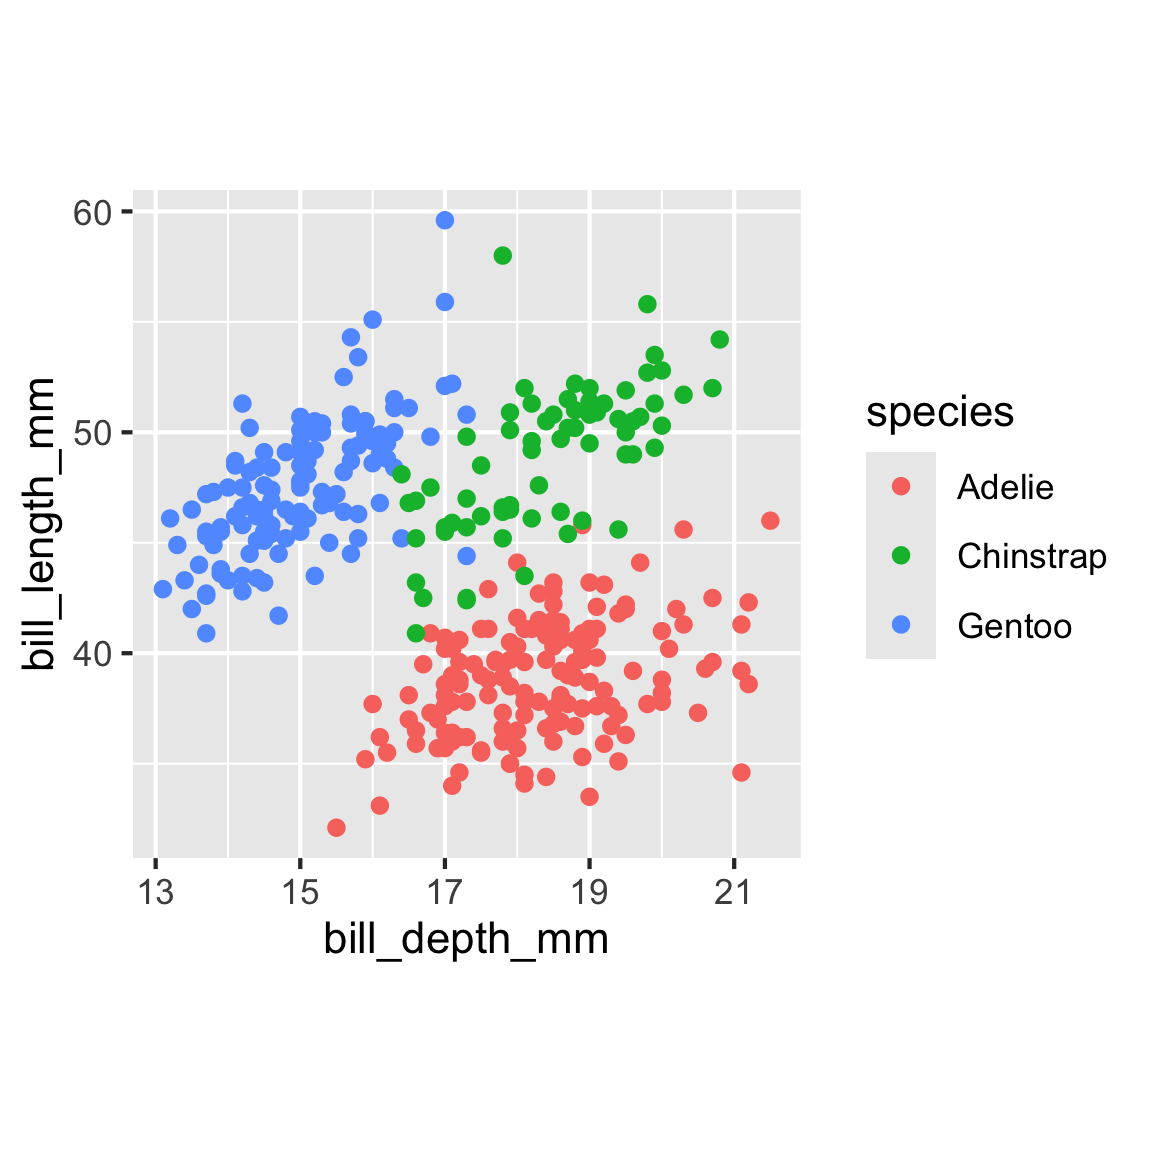
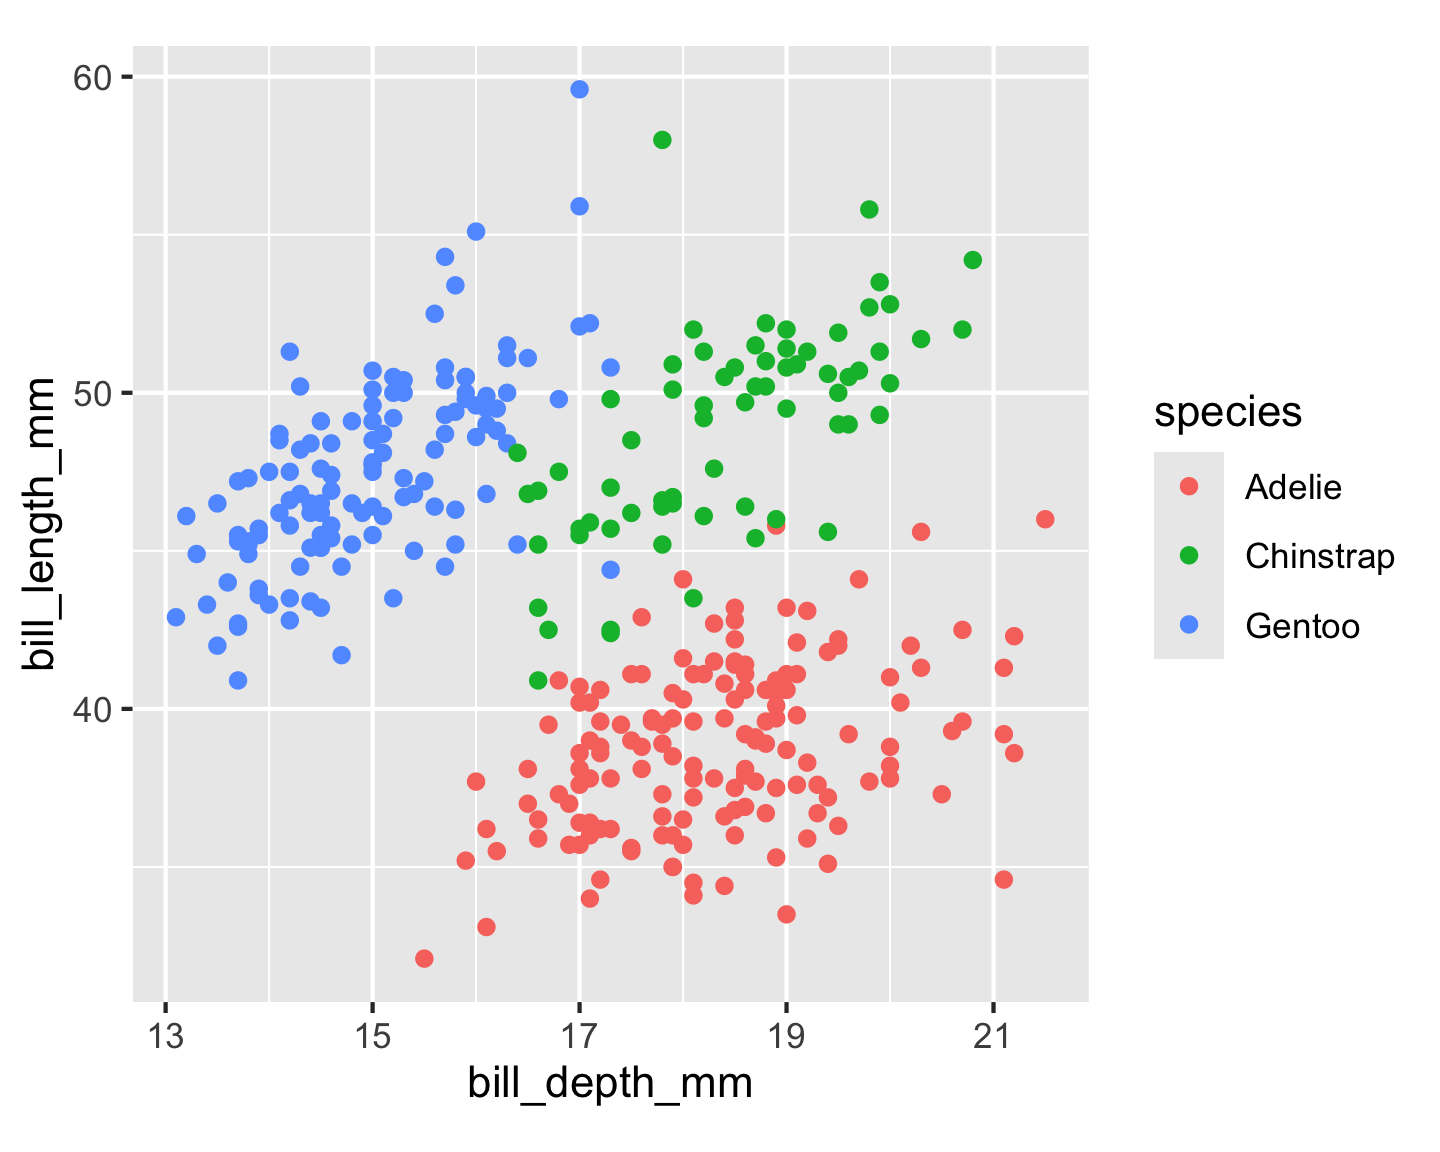
figure sizes

diff --git a/README.md b/README.md
@@ -70,7 +70,7 @@ p
 #> (`geom_point()`).
 ```
 
-<img src="figures/README-penguins-1.png" width="40%" />
+<img src="figures/README-penguins-1.png" width="60%" />
 
 **Alt text:** A scatter plot of the penguin’s data from the
 palmerpenguin package. The plot has a bill depth (30 to 60mm) on the
